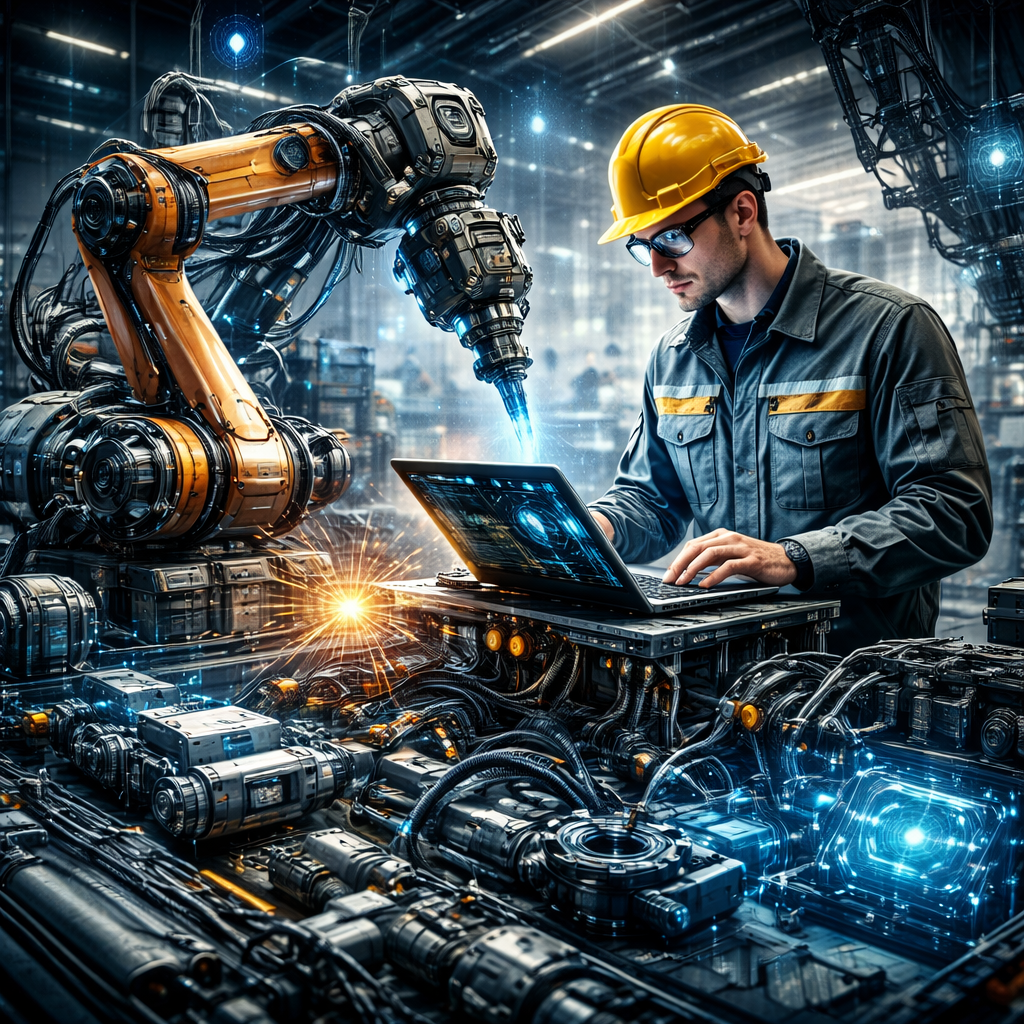
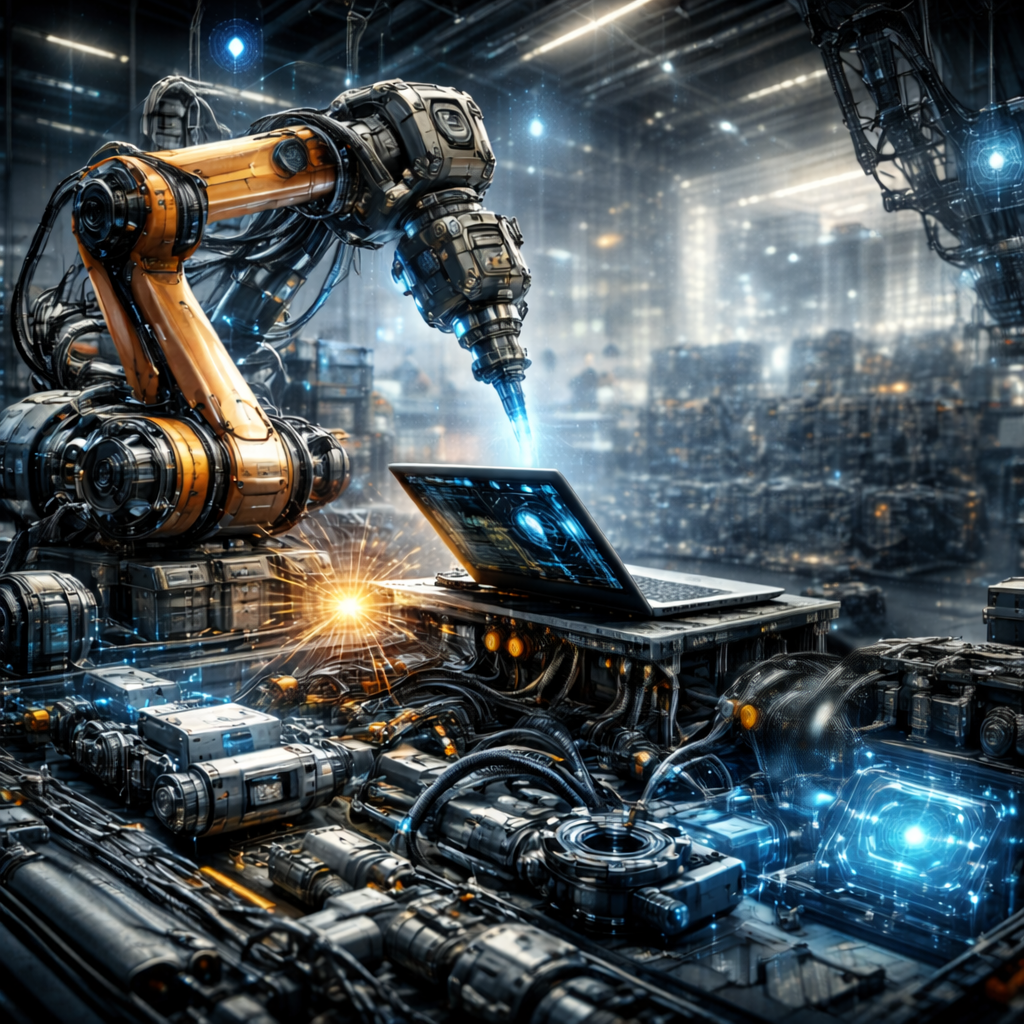
upload

diff --git a/Styles/im.css b/Styles/im.css
@@ -1,7 +1,7 @@
 body {
     font-family: 'Times New Roman', Times, serif;
     text-align: center;
-    margin-top: 50px;
+    margin-top: 30px;
     font-size: 20px;
     margin: 0;
     background-color: rgb(255, 255, 255);
@@ -11,7 +11,7 @@ header {
     min-height: 70vh;
     display: flex;
     flex-direction: column;
-    justify-content: center;
+    justify-content: flex-start;
     align-items: center;
     text-align: center;
     padding: 40px 20px;
@@ -105,5 +105,29 @@ footer {
     position: absolute;
     left: -95%;
     width: 480px;
-    height: 350px;
+    height: 550px;
+}
+
+.hero-img-2 {
+    position: absolute;
+    right: -95%;
+    width: 480px;
+    height: 550px;
+}
+
+@media(max-width:768px){
+
+.hero{
+    flex-direction: column;
+}
+
+.hero-img{
+    width: 90%;
+    height: auto;
+}
+
+header h1{
+    font-size: 2rem;
+}
+
 }

diff --git a/im.html b/im.html
@@ -23,7 +23,7 @@
         <header>
             <div class="hero">
                 <img src="./Images/im/im-main.png" class="hero-img">
-
+                <img src="./Images/im/im-main-2.png" class="hero-img-2">
                 <h1>Индустриална мехатроника</h1>
                 <p>Бъдещето на високотехнологичното производство</p>
             </div>
@@ -110,8 +110,10 @@
         </section>
 
         <footer>
-            <p>ПГМЕТТ "Христо Ботев" Изработили: Илиян Димитров и Божидар Георгиев</p>
+            <p>ПГМЕТТ "Христо Ботев" гр.Шумен
+            <br>
+            Изработили: Илиян Димитров и Божидар Георгиев</p>
         </footer>
+    </nav>
 </body>
-
 </html>
